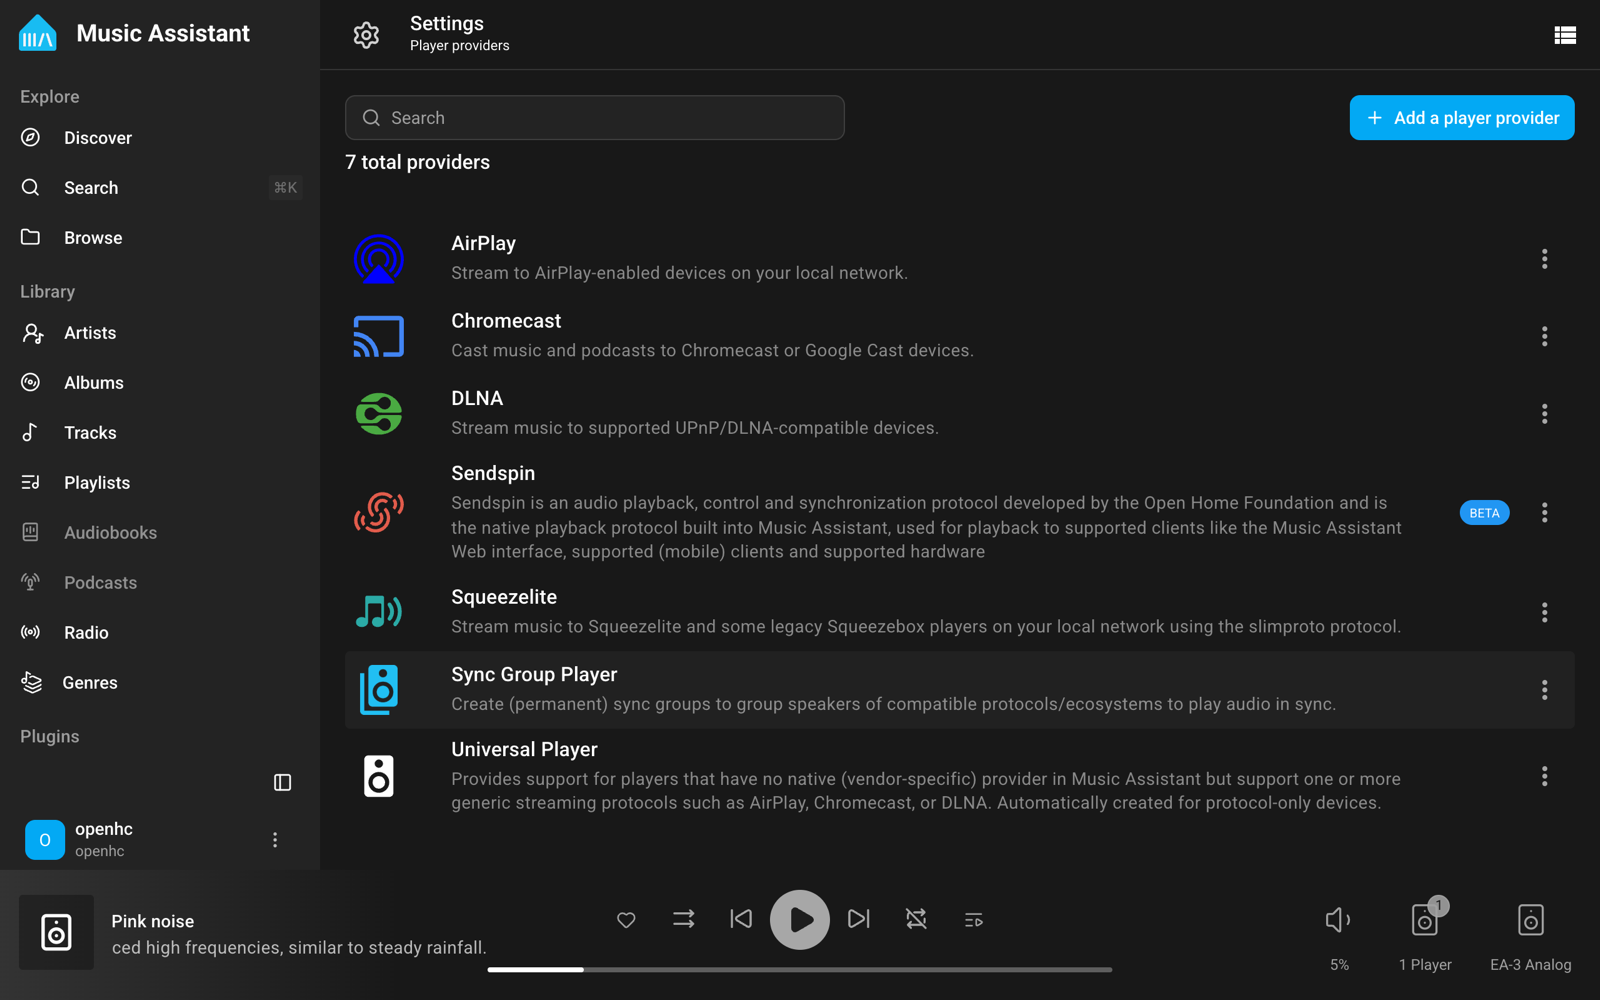
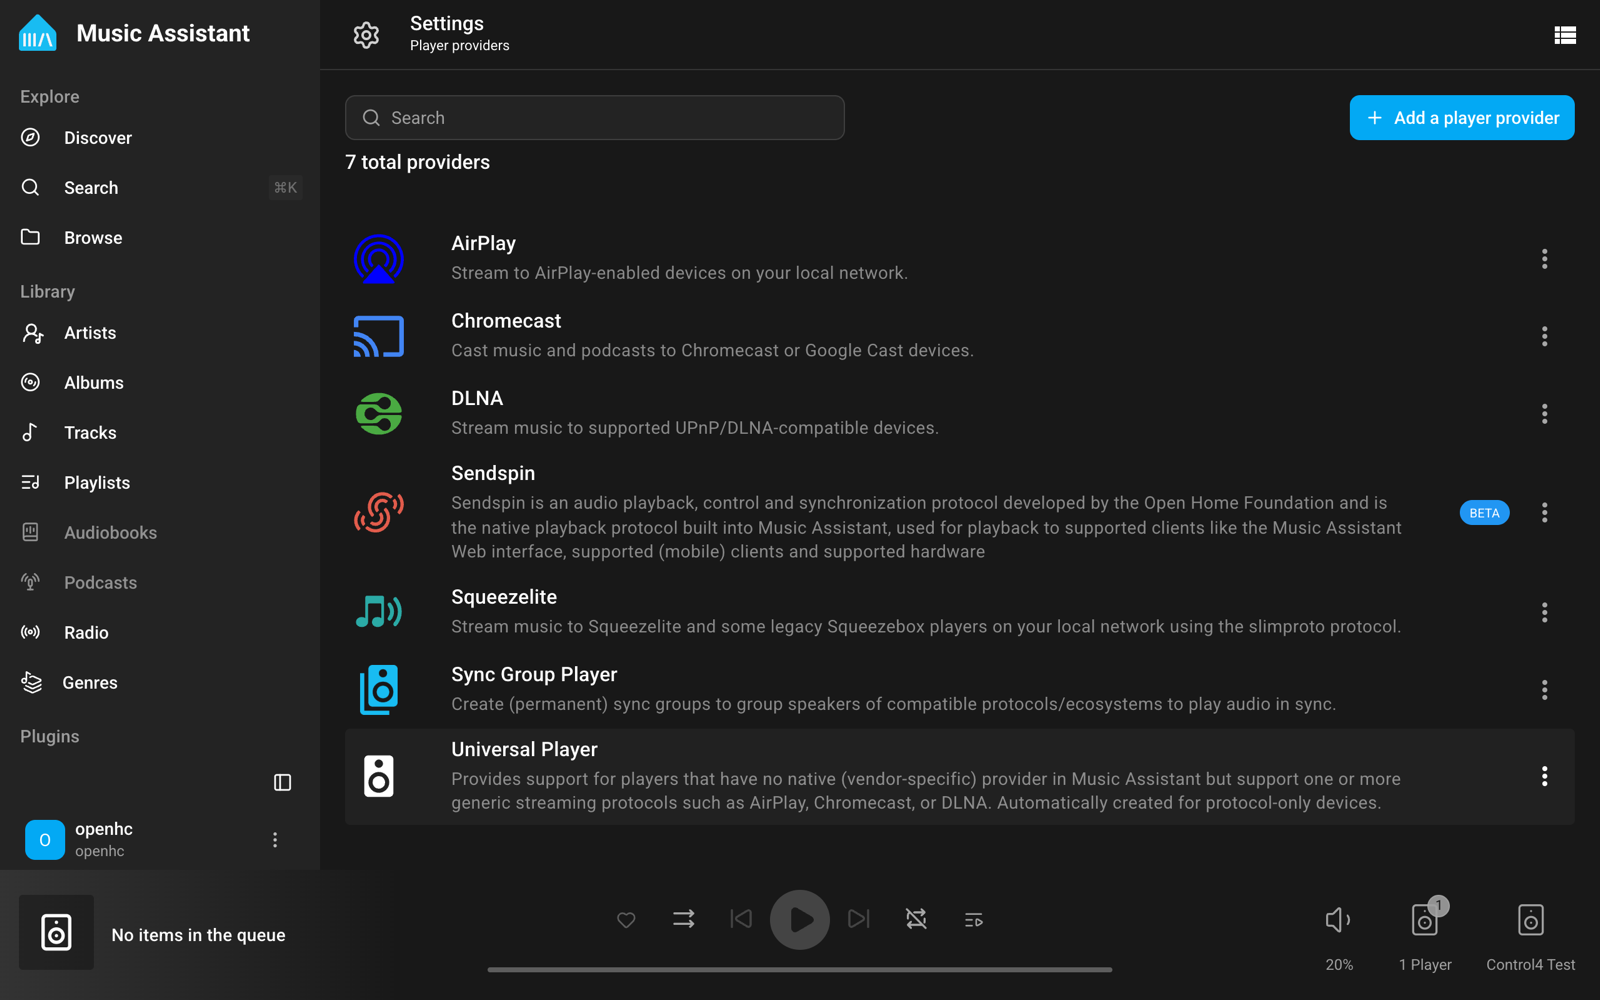
Hardware run on an EA-3: AirPlay 2 endpoints on, Spotify off at first boot; guide fixes and screenshots
- audiod only defaults a kind of endpoint a saved map has no key for when that
  kind is the library player, so the shipped audio.json left AirPlay off. The
  image ships no map now: audiod starts on its board defaults and S98 turns
  only Spotify Connect off, once, through audiod's API.
- Guide: the box is openhc-<MAC>; MA's 15 min first-admin window; switch off
  MA's AirPlay copies of the box's own outputs; MA's URL in HA must be the
  box's address (HA opens MA's sign-in page in the browser); a radio that
  still holds an earlier install's Zigbee network.
- Screenshots from the Debian image on the EA-3; README status.

diff --git a/docs/install.md b/docs/install.md
@@ -50,7 +50,7 @@ Releases, or the `images` workflow's artifacts for a commit), then:
 
 The flasher writes the kernel, reboots the box into openHC's installer,
 writes the system to p1 and reboots again. The box comes back at the same
-address, named `openea<n>-<mac>`.
+address, named `openhc-<MAC>`.
 
 If the first boot gets no network address within five minutes, the box goes
 back to openHC's installer by itself (reachable over SSH as during the
@@ -80,7 +80,7 @@ Assistant discovery, so only the MQTT integration is needed:
 1. Settings → Devices & services → **Add integration** → **MQTT**.
 2. Broker `127.0.0.1`, port `1883`, no username or password.
 
-A device named after the box (`openea3-…`) appears with:
+A device named after the box (`openhc-<MAC>`) appears with:
 
 | Entity | What it does |
 |---|---|
@@ -99,6 +99,19 @@ every device to Home Assistant over the same MQTT. To pair one, turn on
 **Zigbee permit join** and put the device in pairing mode; it appears as a
 device of its own.
 
+![The box in Home Assistant](img/ha-openhc-device.png)
+
+If the box ran openHC before, its radio still holds that install's Zigbee
+network, whose keys went with the old system, and the bridge will not wipe a
+network it does not know. Its log (`journalctl -t zigbee-bridge`) then says
+*refusing to replace it*. To let it form a new one (devices paired to the old
+network have to be paired again):
+
+```sh
+printf '\n[network]\nreplace_other = true\n' >> /run/ohc/zigbee-bridge.toml
+sleep 15; sed -i '/^\[network\]/,$d' /run/ohc/zigbee-bridge.toml
+```
+
 **Bluetooth LE:** not yet (openHC's kernel support for the EA-3's onboard
 Bluetooth is open).
 
@@ -108,17 +121,27 @@ Music Assistant runs next to Home Assistant on `http://<ip>:8095`, with one
 squeezelite player per output (`EA-3 Analog`, `EA-3 Coax`, `EA-3 HDMI`)
 playing into openHC's outputs.
 
-1. Open `http://<ip>:8095` and create the admin account.
+1. Open `http://<ip>:8095` and create the admin account. Music Assistant only
+   takes it in the first 15 minutes after it starts; if it says setup timed
+   out, restart it (`/etc/init.d/S98music-assistant restart`) and try again.
 2. The setup wizard lists the players it found on your network. Switch off
    any you don't want Music Assistant to use, then **Add more players** →
-   **Squeezelite**. The box's outputs appear.
+   **Squeezelite**. The box's outputs appear as squeezelite players.
+
+   Each output also shows up a second time as an AirPlay player: that is
+   openHC's AirPlay 2 receiver for phones (below). Switch those three off in
+   Music Assistant (Settings → Players, or in the wizard) so it plays through
+   the squeezelite ones.
 
    ![Music Assistant player providers](img/ma-player-providers.png)
    ![The box's outputs as players](img/ma-players.png)
 
 3. In Home Assistant: **Add integration** → **Music Assistant**, URL
-   `http://127.0.0.1:8095`, and sign in with the Music Assistant account.
-   Each output becomes a `media_player`.
+   `http://<ip>:8095` (the box's address, not `127.0.0.1`: Home Assistant
+   opens Music Assistant's sign-in page in your browser), and sign in with
+   the Music Assistant account. Each output becomes a `media_player`.
+
+   ![An output in Home Assistant](img/ha-media-player.png)
 
 **Phones.** Each output is an **AirPlay 2** receiver straight away: openHC's
 own AirPlay endpoints, which play into the output beside Music Assistant.

diff --git a/README.md b/README.md
@@ -75,20 +75,17 @@ git add openHC && git commit -m "openHC: bump to <sha>"
 
 ## Status
 
+- [x] The Debian image on an EA-3 (installed over SSH, no serial): systemd,
+      openHC's services and IO, eth0 up; HA and MA installed on first boot.
 - [x] openHC IO in Home Assistant over MQTT discovery: relays and contacts
       from iod; IR, serial and Zigbee joining from `ohc-ha-discovery`.
-      Relay switched from HA on an EA-3.
+      Relay switched from HA on the EA-3 (iod reported it on and off).
 - [x] Zigbee through openHC's zigbee-bridge (MQTT discovery); network formed
-      on an EA-3's EM357. A paired device: not yet.
+      on the EA-3's EM357, permit join in HA. A paired device: not yet.
 - [x] Music Assistant with a squeezelite player per output; played to the
-      EA-3's analog output from Home Assistant. AirPlay into MA through its
-      AirPlay Receiver plugin.
-- [x] The Debian image boots in QEMU on openHC's full kernel: systemd,
-      openhc.service and openHC's scripts, the root grown, eth0 up.
-- [ ] The Debian image on an EA. The first install on an EA-3 did not come
-      back on the network (before the first-boot guard existed); not yet
-      diagnosed. Everything else above ran on a Buildroot openHC box with
-      Python and the services added by hand; the same scripts are in this
-      image.
+      EA-3's analog output from Home Assistant (the analog PCM running).
+- [x] openHC's AirPlay 2 endpoints (shairport-sync and nqptp built in the
+      image), one per output, advertised as AirPlay 2.
+- [x] The Debian image boots in QEMU on openHC's full kernel.
 - [ ] Bluetooth LE: openHC's kernel support for the EA-3's onboard Bluetooth,
       and its Bluetooth bridge's discovery.
